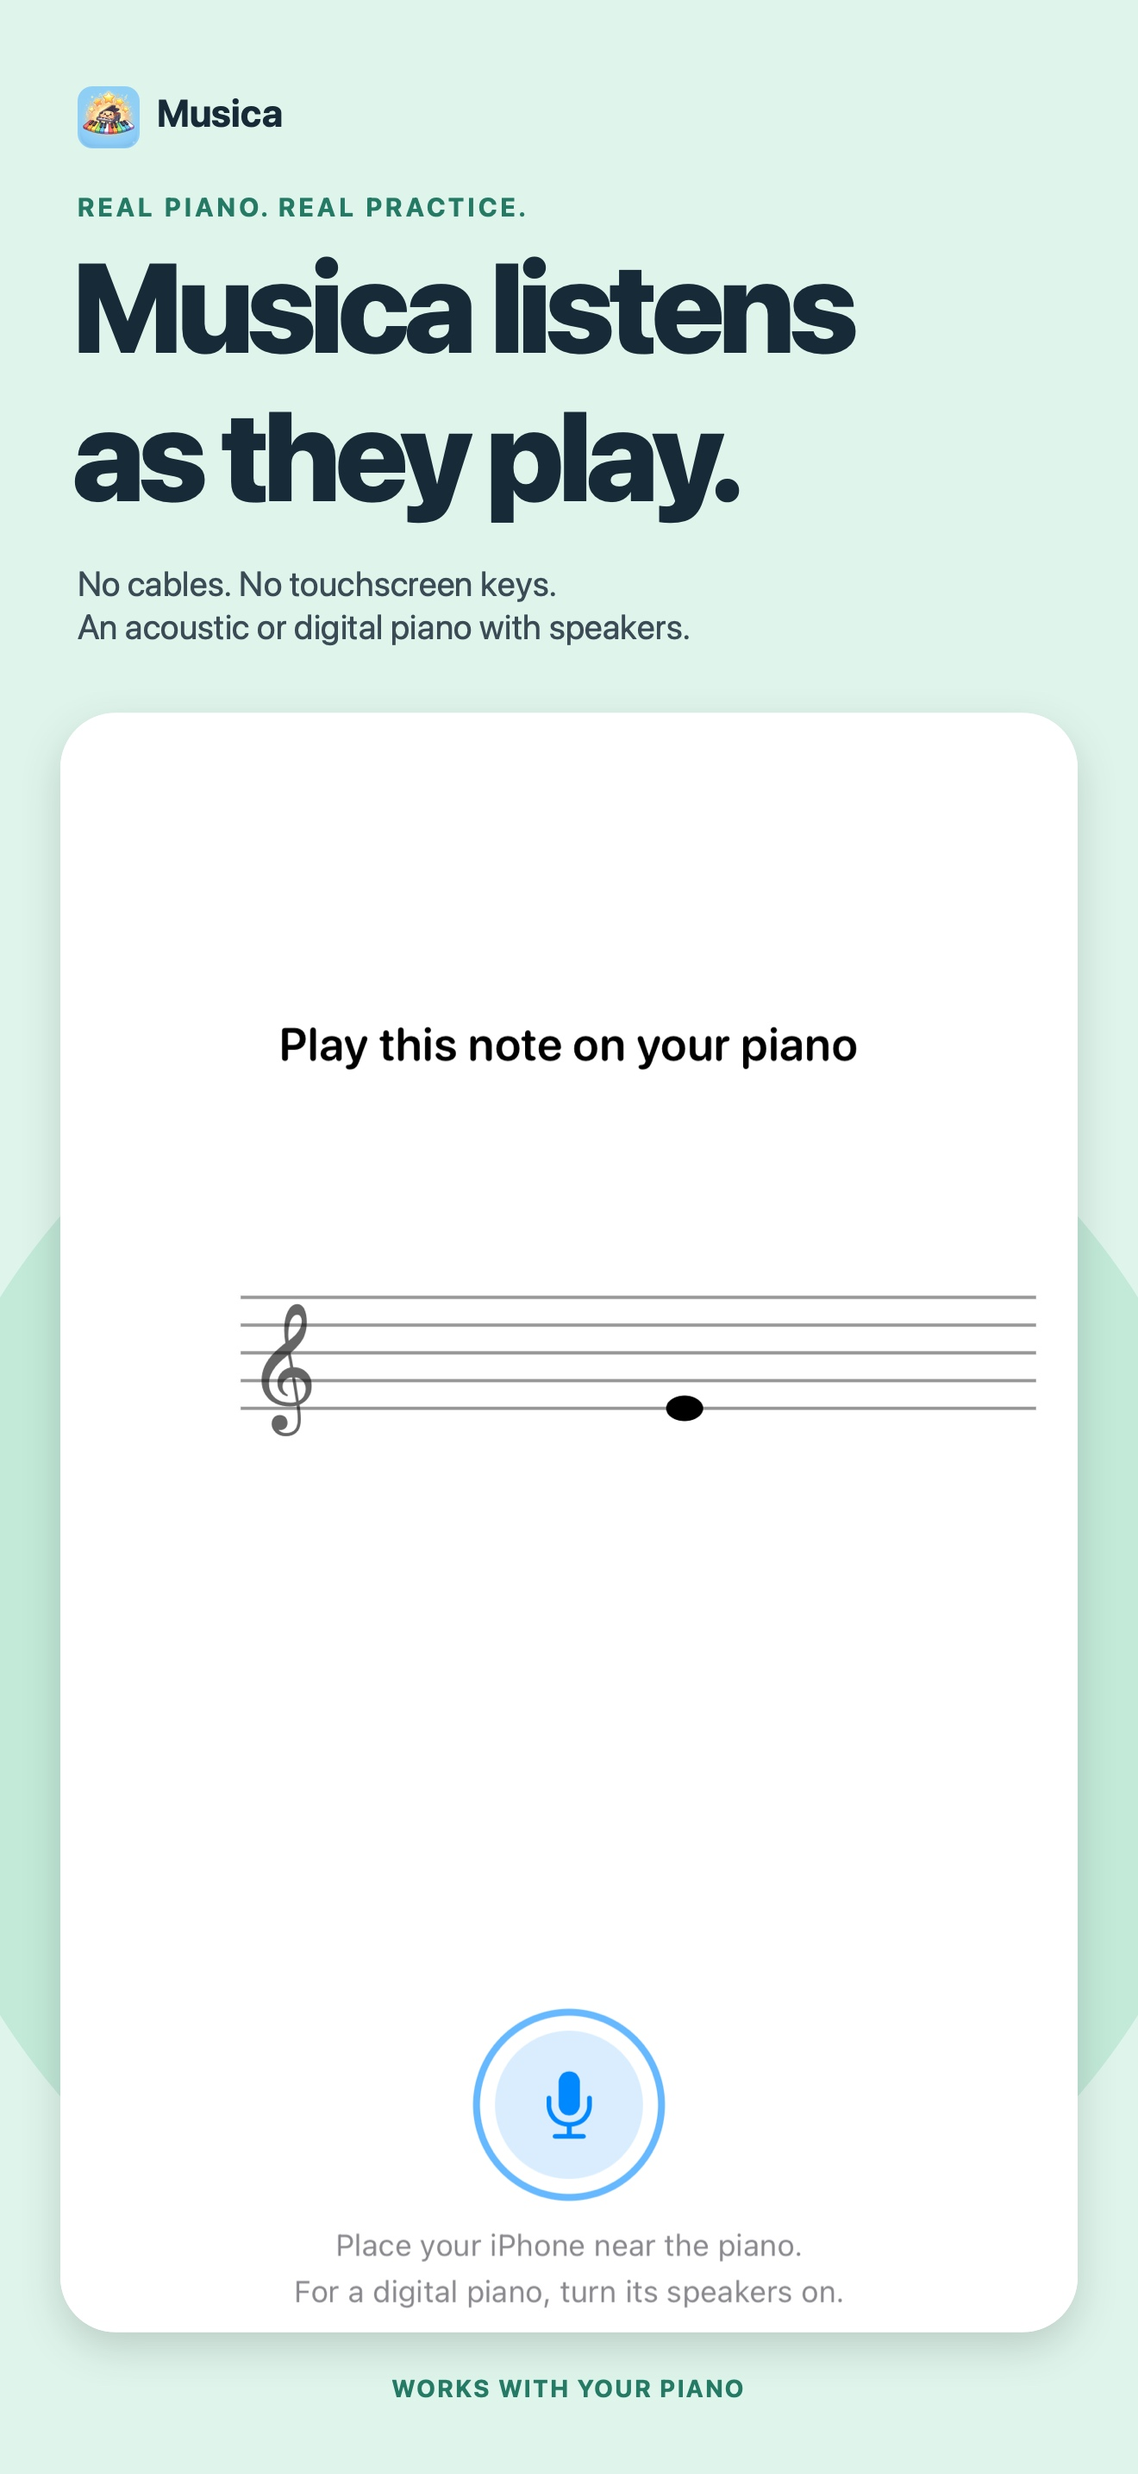
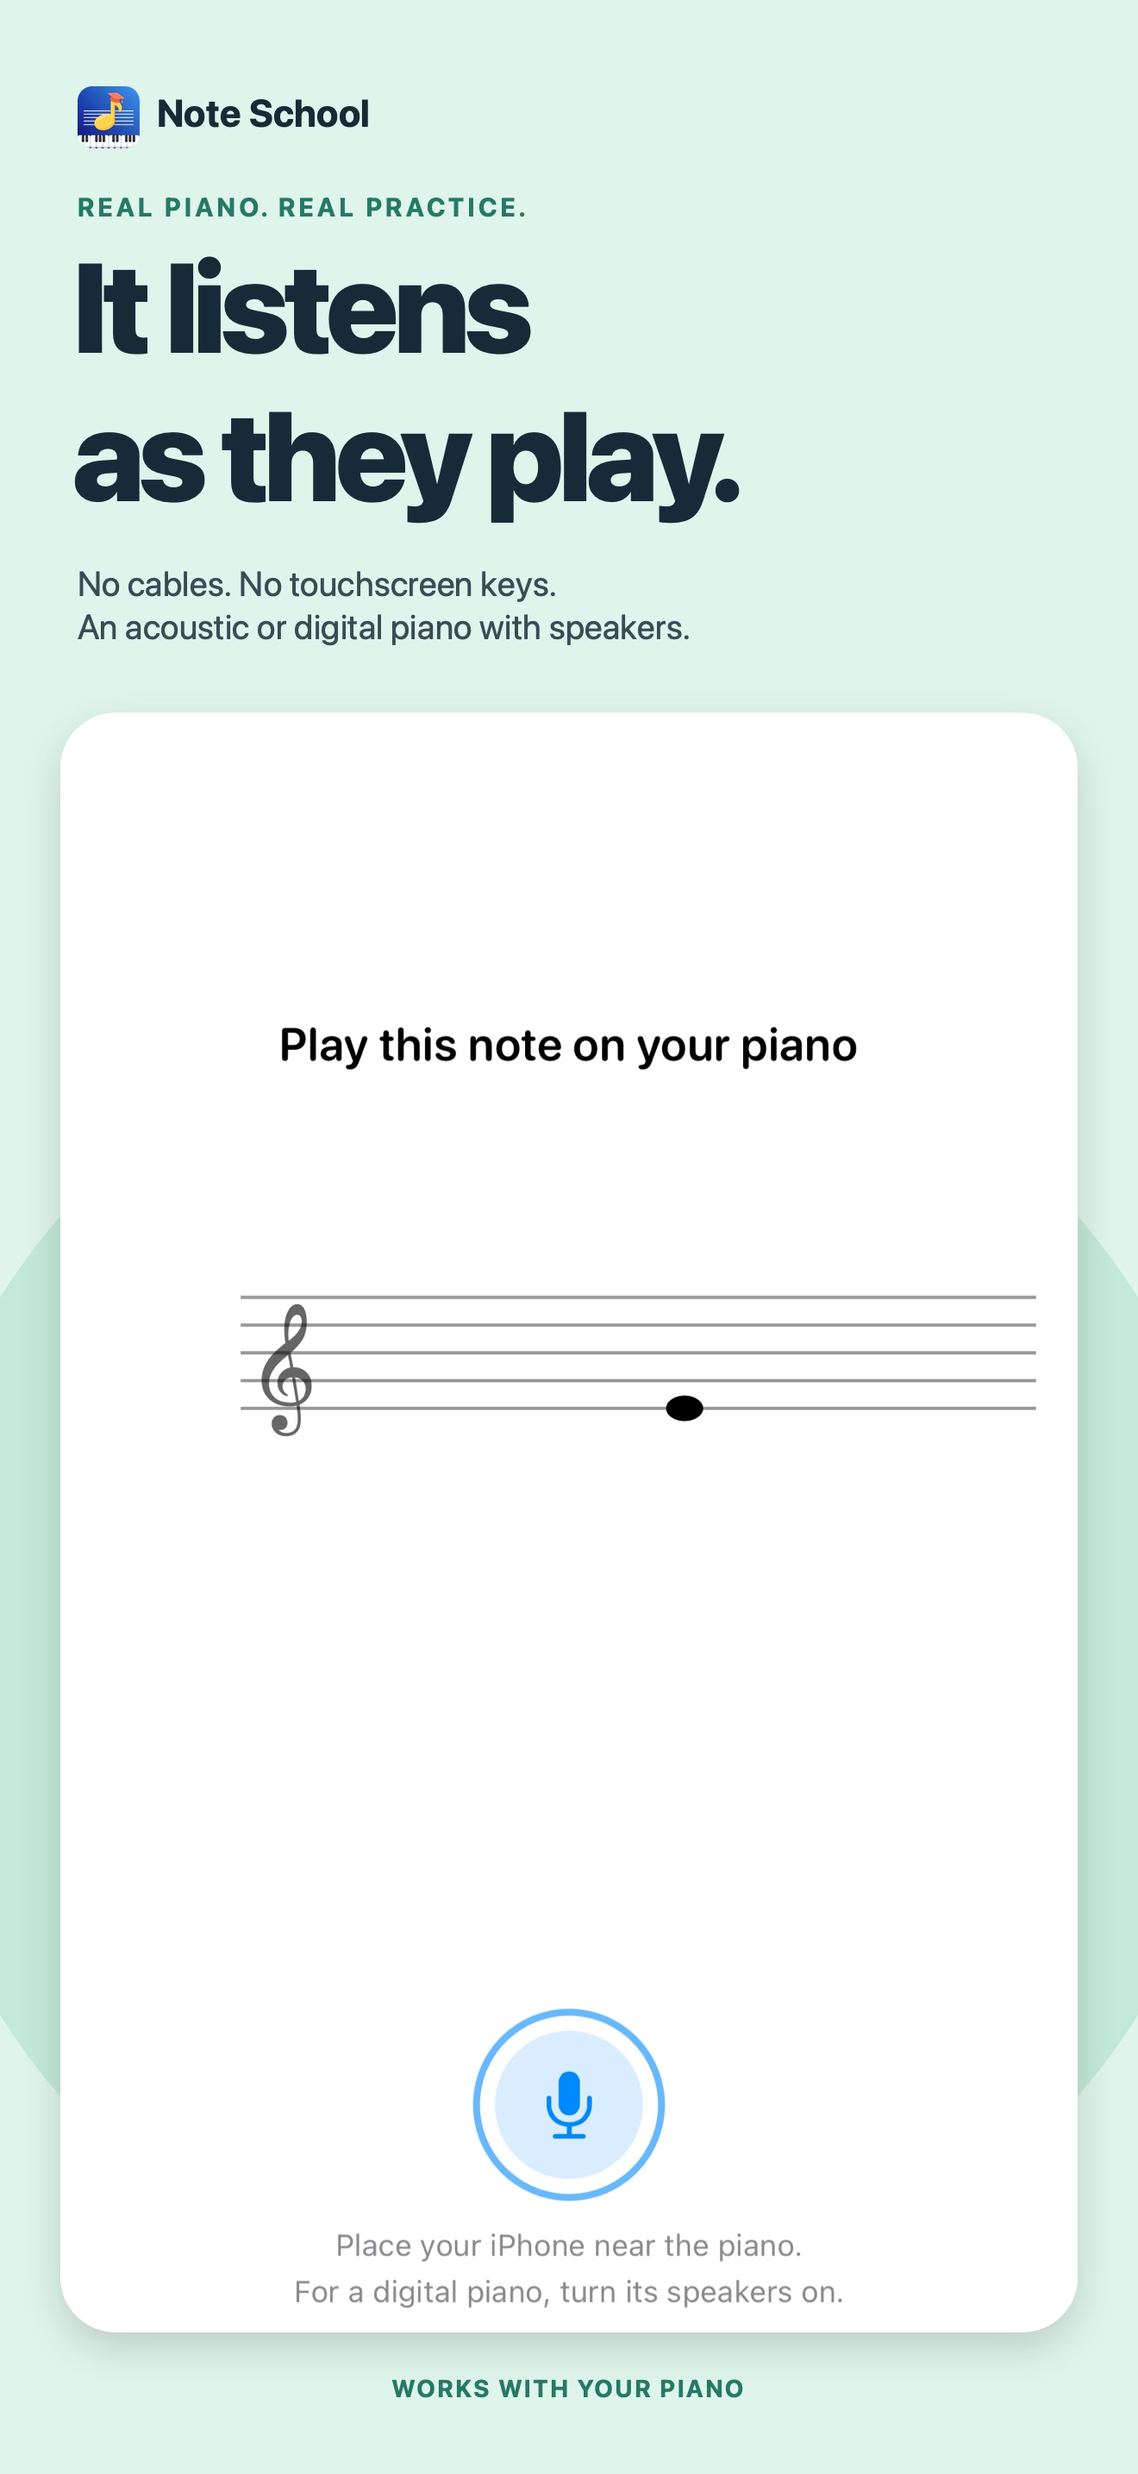
Rename to Note School and prepare 1.2 listing
Musica's App Store name pulled music-player searches (the Oct 13-17 US
Search Match test matched "music" in several languages), so 1.2 renames
the app to "Note School: Piano Reading" with a new icon. The home-screen
name, profiles title, paywall heading and microphone strings now say
Note School; bundle and product IDs are unchanged. The rating request
now comes after the first completed daily goal instead of the third.

Bumps the version to 1.2 (6) and adds the final 1.2 metadata, re-rendered
screenshots with a fresh profiles capture, and the icon source.

Changed region(s): [[0.0932, 0.0931, 0.7455, 0.1552], [0.1553, 0.031, 0.3106, 0.0621], [0.0621, 0.031, 0.1242, 0.0621]]

diff --git a/docs/app-store/release-1.2-draft/render_screens.swift b/docs/app-store/release-1.2-draft/render_screens.swift
@@ -1,4 +1,5 @@
-// Render zoomed App Store layouts at exact pixel size from the 1.1 app captures.
+// Render zoomed App Store layouts at exact pixel size from the app captures.
+// Captures in release-1.2-draft/raw/ override the 1.1 ones in release-1.1/raw/.
 // Usage: swift docs/app-store/release-1.2-draft/render_screens.swift "$PWD/docs/app-store"
 import AppKit
 let root = URL(fileURLWithPath: CommandLine.arguments[1])
@@ -6,12 +7,12 @@ let out = root.appendingPathComponent("release-1.2-draft/screenshots")
 try FileManager.default.createDirectory(at: out, withIntermediateDirectories: true)
 // slug, raw capture, crop (x, y, w, h in capture pixels, top-left origin), eyebrow, title, detail, footer, theme
 let scenes: [(String,String,CGRect,String,String,String,String,String)] = [
-("01-note-to-key","hints",CGRect(x:150,y:620,width:1020,height:1480),"SEE THE NOTE. FIND THE KEY.","Play the note on\nyour real piano.","Musica listens and helps when they're stuck.","20 NOTES A DAY · FREE","mint"),
+("01-note-to-key","hints",CGRect(x:150,y:620,width:1020,height:1480),"SEE THE NOTE. FIND THE KEY.","Play the note on\nyour real piano.","It listens and helps when they're stuck.","20 NOTES A DAY · FREE","mint"),
 ("02-goal","goal",CGRect(x:105,y:902,width:1113,height:1147),"A LITTLE PRACTICE, EVERY DAY","Small goals.\nBig smiles.","20 free notes a day, with a celebration\nwhen the goal is reached.","BUILD A DAILY HABIT · FREE","peach"),
-("03-progress","progress",CGRect(x:0,y:360,width:1320,height:1740),"MUSICA PREMIUM","See their\npractice add up.","Daily scores, gold stars, and the notes\nthey practiced.","PROGRESS CALENDAR · PREMIUM","lavender"),
-("04-listens","practice",CGRect(x:0,y:620,width:1320,height:2100),"REAL PIANO. REAL PRACTICE.","Musica listens\nas they play.","No cables. No touchscreen keys.\nAn acoustic or digital piano with speakers.","WORKS WITH YOUR PIANO","mint"),
-("05-grand","grand",CGRect(x:180,y:780,width:1140,height:1000),"MUSICA PREMIUM","Treble, bass,\nand grand staff.","Grow from the first notes to\nthe full grand staff.","MORE ROOM TO GROW · PREMIUM","lavender"),
-("06-profiles","profiles",CGRect(x:0,y:340,width:1320,height:640),"MUSICA PREMIUM","A profile for\neach child.","Their own pace, goal, and practice history.","MULTIPLE PROFILES · PREMIUM","peach")]
+("03-progress","progress",CGRect(x:0,y:360,width:1320,height:1740),"NOTE SCHOOL PREMIUM","See their\npractice add up.","Daily scores, gold stars, and the notes\nthey practiced.","PROGRESS CALENDAR · PREMIUM","lavender"),
+("04-listens","practice",CGRect(x:0,y:620,width:1320,height:2100),"REAL PIANO. REAL PRACTICE.","It listens\nas they play.","No cables. No touchscreen keys.\nAn acoustic or digital piano with speakers.","WORKS WITH YOUR PIANO","mint"),
+("05-grand","grand",CGRect(x:180,y:780,width:1140,height:1000),"NOTE SCHOOL PREMIUM","Treble, bass,\nand grand staff.","Grow from the first notes to\nthe full grand staff.","MORE ROOM TO GROW · PREMIUM","lavender"),
+("06-profiles","profiles",CGRect(x:0,y:340,width:1320,height:640),"NOTE SCHOOL PREMIUM","A profile for\neach child.","Their own pace, goal, and practice history.","MULTIPLE PROFILES · PREMIUM","peach")]
 func color(_ hex:String)->NSColor { let n=UInt32(hex,radix:16)!; return NSColor(srgbRed:CGFloat((n>>16)&255)/255,green:CGFloat((n>>8)&255)/255,blue:CGFloat(n&255)/255,alpha:1) }
 func text(_ value:String,_ x:CGFloat,_ y:CGFloat,_ width:CGFloat,_ height:CGFloat,_ size:CGFloat,_ weight:NSFont.Weight,_ ink:NSColor,_ align:NSTextAlignment = .left,_ kern:CGFloat = 0,_ spacing:CGFloat = 3) {
  let p=NSMutableParagraphStyle(); p.alignment=align; p.lineBreakMode = .byWordWrapping; p.lineSpacing=spacing
@@ -27,12 +28,13 @@ for (slug,raw,crop,eyebrow,title,detail,footer,theme) in scenes {
  color(palette[2]).withAlphaComponent(0.65).setFill(); NSBezierPath(ovalIn:NSRect(x:-120,y:1140,width:1560,height:1560)).fill()
  let icon=NSImage(contentsOf:root.appendingPathComponent("../../Musica/Assets.xcassets/AppIcon.appiconset/AppIcon.png"))!
  NSGraphicsContext.saveGraphicsState(); NSBezierPath(roundedRect:NSRect(x:90,y:100,width:72,height:72),xRadius:17,yRadius:17).addClip(); icon.draw(in:NSRect(x:90,y:100,width:72,height:72),from:.zero,operation:.sourceOver,fraction:1,respectFlipped:true,hints:nil); NSGraphicsContext.restoreGraphicsState()
- text("Musica",182,104,700,70,44,.bold,color("172a38"))
+ text("Note School",182,104,700,70,44,.bold,color("172a38"))
  text(eyebrow,90,222,1140,50,30,.bold,color(palette[1]),.left,4)
  text(title,84,268,1180,380,146,.heavy,color("172a38"),.left,-6,0)
  text(detail,90,652,1140,130,40,.regular,color("3b4b55"))
  // Zoomed card of the real app screen, centered in the space between the copy and the footer.
- let capture=NSImage(contentsOf:root.appendingPathComponent("release-1.1/raw/\(raw).png"))!
+ let override=root.appendingPathComponent("release-1.2-draft/raw/\(raw).png")
+ let capture=NSImage(contentsOf:FileManager.default.fileExists(atPath:override.path) ? override : root.appendingPathComponent("release-1.1/raw/\(raw).png"))!
  var rect=CGRect(origin:.zero,size:capture.size)
  let source=capture.cgImage(forProposedRect:&rect,context:nil,hints:nil)!.cropping(to:crop)!
  let width:CGFloat=1180, top:CGFloat=820, bottom:CGFloat=2710

diff --git a/docs/app-store/release-1.2-draft/tile_mockup.swift b/docs/app-store/release-1.2-draft/tile_mockup.swift
@@ -1,12 +1,13 @@
 // Compose an iPhone App Store search-result mockup: current vs draft screenshots.
-// Usage: swift tile_mockup.swift <docs/app-store dir> <output png>
+// Usage: swift tile_mockup.swift <docs/app-store dir> <output png> <old icon png>
 import AppKit
 let root = URL(fileURLWithPath: CommandLine.arguments[1])
 let output = URL(fileURLWithPath: CommandLine.arguments[2])
-let icon = NSImage(contentsOf: root.appendingPathComponent("../../Musica/Assets.xcassets/AppIcon.appiconset/AppIcon.png"))!
-let rows: [(String, String, [String])] = [
- ("Today (1.1)", "Sight reading for kids", ["release-1.1/screenshots/01-practice.jpg","release-1.1/screenshots/02-hints.jpg","release-1.1/screenshots/03-goal.jpg"]),
- ("Draft (1.2)", "Read music on a real piano", ["release-1.2-draft/screenshots/01-note-to-key.jpg","release-1.2-draft/screenshots/02-goal.jpg","release-1.2-draft/screenshots/03-progress.jpg"])]
+let newIcon = NSImage(contentsOf: root.appendingPathComponent("../../Musica/Assets.xcassets/AppIcon.appiconset/AppIcon.png"))!
+let oldIcon = NSImage(contentsOfFile: CommandLine.arguments[3])!
+let rows: [(String, NSImage, String, String, [String])] = [
+ ("Today (1.1)", oldIcon, "Musica: Piano Note Practice", "Sight reading for kids", ["release-1.1/screenshots/01-practice.jpg","release-1.1/screenshots/02-hints.jpg","release-1.1/screenshots/03-goal.jpg"]),
+ ("Version 1.2", newIcon, "Note School: Piano Reading", "Treble & bass for kids", ["release-1.2-draft/screenshots/01-note-to-key.jpg","release-1.2-draft/screenshots/02-goal.jpg","release-1.2-draft/screenshots/03-progress.jpg"])]
 let s: CGFloat = 3, W: CGFloat = 393*s, rowH: CGFloat = 380*s, H = rowH*CGFloat(rows.count)
 let bitmap = NSBitmapImageRep(bitmapDataPlanes:nil,pixelsWide:Int(W),pixelsHigh:Int(H),bitsPerSample:8,samplesPerPixel:4,hasAlpha:true,isPlanar:false,colorSpaceName:.deviceRGB,bytesPerRow:0,bitsPerPixel:0)!
 let cg = NSGraphicsContext(bitmapImageRep:bitmap)!.cgContext
@@ -16,13 +17,13 @@ NSColor.white.setFill(); NSRect(x:0,y:0,width:W,height:H).fill()
 func text(_ v:String,_ x:CGFloat,_ y:CGFloat,_ size:CGFloat,_ weight:NSFont.Weight,_ ink:NSColor) {
  (v as NSString).draw(at:NSPoint(x:x*s,y:y*s),withAttributes:[.font:NSFont.systemFont(ofSize:size*s,weight:weight),.foregroundColor:ink])
 }
-for (i,(label,subtitle,shots)) in rows.enumerated() {
+for (i,(label,icon,name,subtitle,shots)) in rows.enumerated() {
  let y0 = CGFloat(i)*380
  cg.saveGState(); cg.translateBy(x:0,y:y0*s)
  text(label.uppercased(),20,10,11,.bold,NSColor.systemPurple)
  let iconRect = NSRect(x:20*s,y:32*s,width:62*s,height:62*s)
  NSGraphicsContext.saveGraphicsState(); NSBezierPath(roundedRect:iconRect,xRadius:14*s,yRadius:14*s).addClip(); icon.draw(in:iconRect,from:.zero,operation:.sourceOver,fraction:1,respectFlipped:true,hints:nil); NSGraphicsContext.restoreGraphicsState()
- text("Musica: Piano Note Practice",94,38,15,.semibold,.black)
+ text(name,94,38,15,.semibold,.black)
  text(subtitle,94,58,13,.regular,.gray)
  text("★★★★★  no ratings yet",94,76,10,.regular,NSColor.lightGray)
  let get = NSRect(x:305*s,y:48*s,width:68*s,height:28*s)

diff --git a/MusicaTests/RatingPrompterTests.swift b/MusicaTests/RatingPrompterTests.swift
@@ -112,7 +112,7 @@ final class RatingPrompterTests: XCTestCase {
         XCTAssertEqual(RatingPrompter.goalDaysReached(profile: profile, context: context), 0)
     }
 
-    // MARK: - The ask fires on the third goal day
+    // MARK: - The ask fires on the first goal day
 
     // Low goal keeps every note under the free daily limit, so nothing is
     // gated. Returns the view model that crossed the goal — the thing
@@ -143,15 +143,29 @@ final class RatingPrompterTests: XCTestCase {
     }
 
     @MainActor
-    func testSecondGoalDayDoesNotRequestReview() throws {
+    func testFirstGoalDayRequestsReview() throws {
         let context = try makeContext()
         let profile = try makeProfile(in: context, dailyGoal: 3)
-        try recordDay(-1, completed: 4, goal: 3, profile: profile, in: context)
 
         let vm = try reachGoal(profile: profile, in: context)
 
         XCTAssertEqual(vm.completedToday, 3)
-        XCTAssertEqual(RatingPrompter.goalDaysReached(profile: profile, context: context), 2)
+        XCTAssertEqual(RatingPrompter.goalDaysReached(profile: profile, context: context), 1)
+        XCTAssertTrue(vm.shouldRequestReview)
+    }
+
+    @MainActor
+    func testNoReviewBeforeTheGoalIsReached() throws {
+        let context = try makeContext()
+        let profile = try makeProfile(in: context, dailyGoal: 3)
+        let vm = PracticeViewModel(profile: profile)
+        vm.setup(context: context)
+        for _ in 0..<(profile.dailyGoal - 1) {
+            vm.evaluateNote(vm.currentNote)
+            vm.nextNote()
+        }
+
+        XCTAssertEqual(vm.completedToday, 2)
         XCTAssertFalse(vm.shouldRequestReview)
     }
 }

diff --git a/Musica/Services/PracticeViewModel.swift b/Musica/Services/PracticeViewModel.swift
@@ -87,7 +87,7 @@ final class PracticeViewModel {
             if completedToday == dailyGoal {
                 haptic(.success)
                 // Today's save above just became a goal day, so this is
-                // where the third one is detected — right at the crown.
+                // where the qualifying one is detected — right at the crown.
                 if let context = modelContext {
                     shouldRequestReview = RatingPrompter.goalDaysReached(profile: profile, context: context)
                         >= RatingPrompter.goalDaysBeforeAsking

diff --git a/Musica/Services/RatingPrompter.swift b/Musica/Services/RatingPrompter.swift
@@ -9,7 +9,7 @@ import SwiftData
 /// whole device, even when siblings switch profiles. Apple decides
 /// whether the system dialog actually appears.
 enum RatingPrompter {
-    static let goalDaysBeforeAsking = 3
+    static let goalDaysBeforeAsking = 1
     static let requestInterval: TimeInterval = 120 * 24 * 60 * 60
 
     static func mayRequest(lastRequested: Date?, now: Date = .now) -> Bool {

diff --git a/Musica/Views/Paywall/PaywallView.swift b/Musica/Views/Paywall/PaywallView.swift
@@ -43,7 +43,7 @@ struct PaywallView: View {
         VStack(spacing: 12) {
             Text("🎹⭐")
                 .font(.system(size: 52))
-            Text("Musica Premium")
+            Text("Note School Premium")
                 .font(.system(.title, design: .rounded, weight: .bold))
                 .foregroundStyle(
                     LinearGradient(colors: [.purple, .blue],

diff --git a/Musica/Views/Profiles/ProfileListView.swift b/Musica/Views/Profiles/ProfileListView.swift
@@ -14,7 +14,7 @@ struct ProfileListView: View {
     var body: some View {
         NavigationStack {
             VStack(spacing: 32) {
-                Text("Musica")
+                Text("Note School")
                     .font(.system(size: 42, weight: .bold, design: .rounded))
                     .foregroundStyle(
                         LinearGradient(colors: [.purple, .blue],

diff --git a/Musica/Views/Practice/PracticeView.swift b/Musica/Views/Practice/PracticeView.swift
@@ -154,7 +154,7 @@ struct PracticeView: View {
         )) {
             Button("OK", role: .cancel) { audioError = nil }
         } message: {
-            Text("Allow microphone access for Musica in Settings, then tap the microphone to try again.")
+            Text("Allow microphone access for Note School in Settings, then tap the microphone to try again.")
         }
     }
 

diff --git a/Musica/Services/StoreService.swift b/Musica/Services/StoreService.swift
@@ -1,7 +1,7 @@
 import Foundation
 import StoreKit
 
-/// StoreKit 2 wrapper: knows whether the family has Musica Premium and
+/// StoreKit 2 wrapper: knows whether the family has Note School Premium and
 /// keeps that answer fresh across purchases, renewals, and refunds.
 /// Purchases themselves run through SubscriptionStoreView in PaywallView.
 @MainActor

diff --git a/docs/app-store/release-1.2-draft/README.md b/docs/app-store/release-1.2-draft/README.md
@@ -41,6 +41,26 @@ The output is six opaque 1320 × 2868 JPEGs in `screenshots/`. They reuse the 1.
 
 These are candidate terms only. Real query data from the US Search Match test (if approved) should be used to finalize them.
 
+## Name (decided by Mehrdad, Oct 17, 2026)
+
+**Note School: Piano Reading** (26 characters). The home-screen name would be **Note School** (11).
+
+- Why: the Oct 13–17 US Search Match test matched "Musica" to music-player searches, including "music" in Russian and Arabic ([check-in](../campaigns/2026-10-17-us-check-in.md)). The new name is piano-first.
+- Rejected options: "Simple Piano School" is too close to Simply Piano, which has about 858k ratings. "Piano School" is already used by another app and overpromises full lessons.
+- Avoid "Kids" in the name; it was removed on purpose in PR #10.
+- Apple confirms the name is free only when it's entered in App Store Connect.
+- The subtitle must not repeat name words (note, school, piano, reading). "Sight reading for kids" repeats "reading". Candidates to finalize after the Oct 19 data: "Treble & bass for kids", "Sight-read treble & bass".
+- In-app "Musica" branding to rename in the 1.2 build: the profiles screen title, "Musica Premium" on the paywall and in the description, the screenshot header in `render_screens.swift`, and the bundle display name. The bundle ID `com.higgssoftware.musica` and the subscription product IDs stay the same.
+
+## Icon (candidate)
+
+- [`icon/AppIcon-note-school.png`](icon/AppIcon-note-school.png): 1024 × 1024 PNG with no alpha. Made with Gemini on Oct 17, 2026; the 2048 px source is kept as `icon/gemini-source-2048.jpeg`.
+- [`icon/icon-compare.png`](icon/icon-compare.png) compares it with the current icon at 180/120/60/40 px.
+- The current icon is busy, has a baked-in rounded border, and shows a cartoon piano rather than note reading. At 60 px it blurs.
+- Gemini prompt (first pass): "Create an image: a 1024x1024 iOS app icon for a children's piano note-reading app called "Note School". One bold, simple central symbol: a large, friendly quarter note (music note) wearing a small graduation cap, resting on five clean staff lines, with a short row of piano keys along the bottom edge. Flat vector style with soft gradients and thick, rounded shapes that stay readable at 60x60 pixels. Palette: deep blue background gradient (#2B59C3 to #4A7BE0), white staff lines and white piano keys with black keys, a sunny yellow note with a coral-orange cap. Centered composition with generous padding. Full-bleed square background edge to edge: no rounded corners, no border, no frame, no outer shadow, no text, no letters, no watermark."
+- Follow-up prompt: "keep everything the same but fix the staff: exactly five single, evenly spaced white staff lines, with no duplicate or shadow lines…" The first pass had doubled staff lines.
+- To adopt it, replace `Musica/Assets.xcassets/AppIcon.appiconset/AppIcon.png` in the 1.2 build.
+
 ## Constraints
 
 - The subtitle, keywords and screenshots can only change with a **new app version**. That means a new build plus App Review. Promotional text can change any time, but it does not show in search results.
